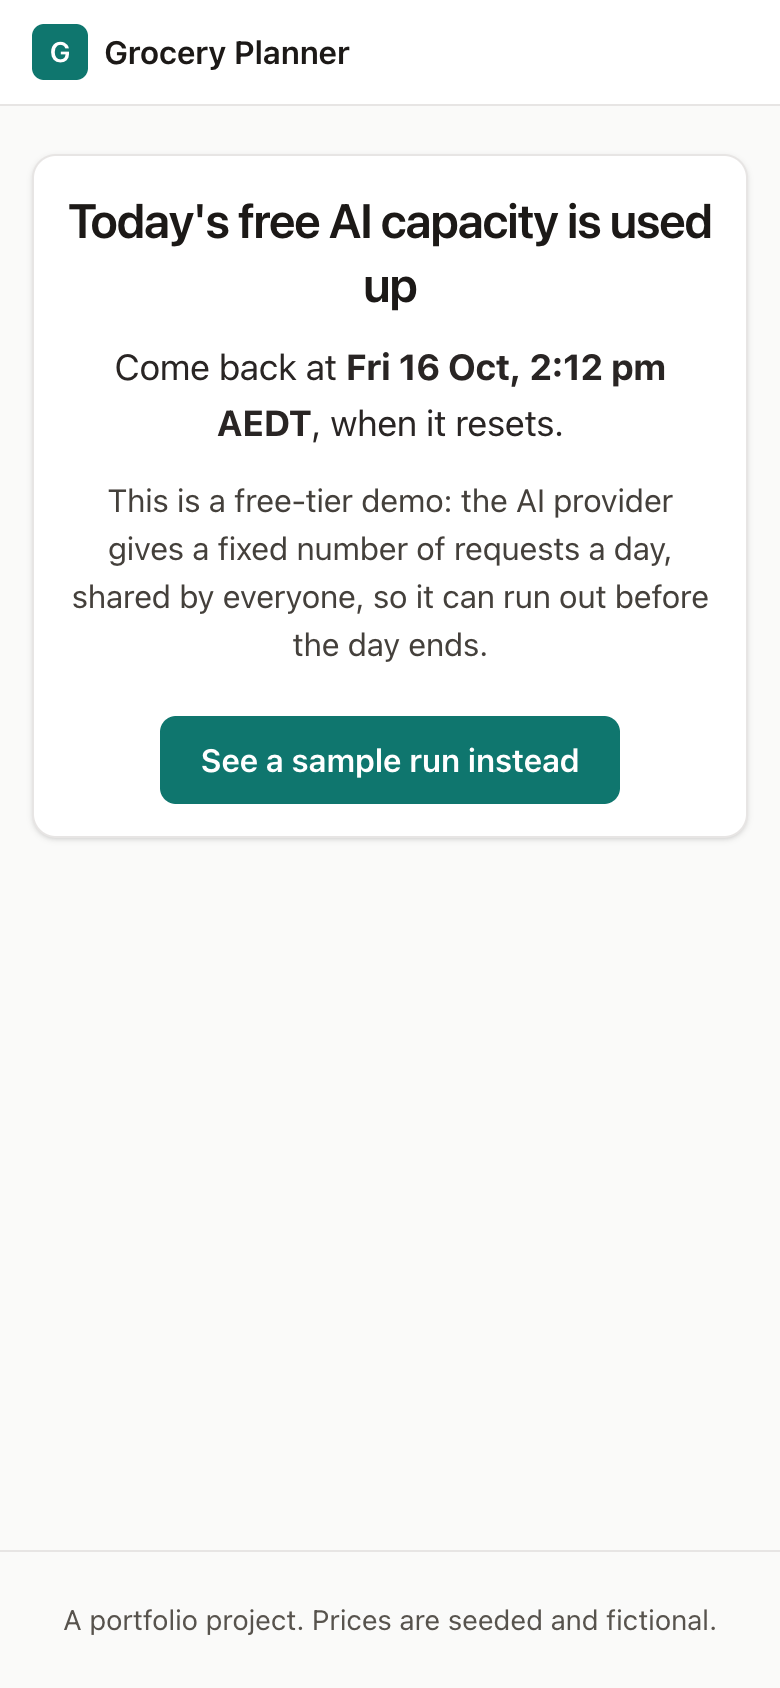
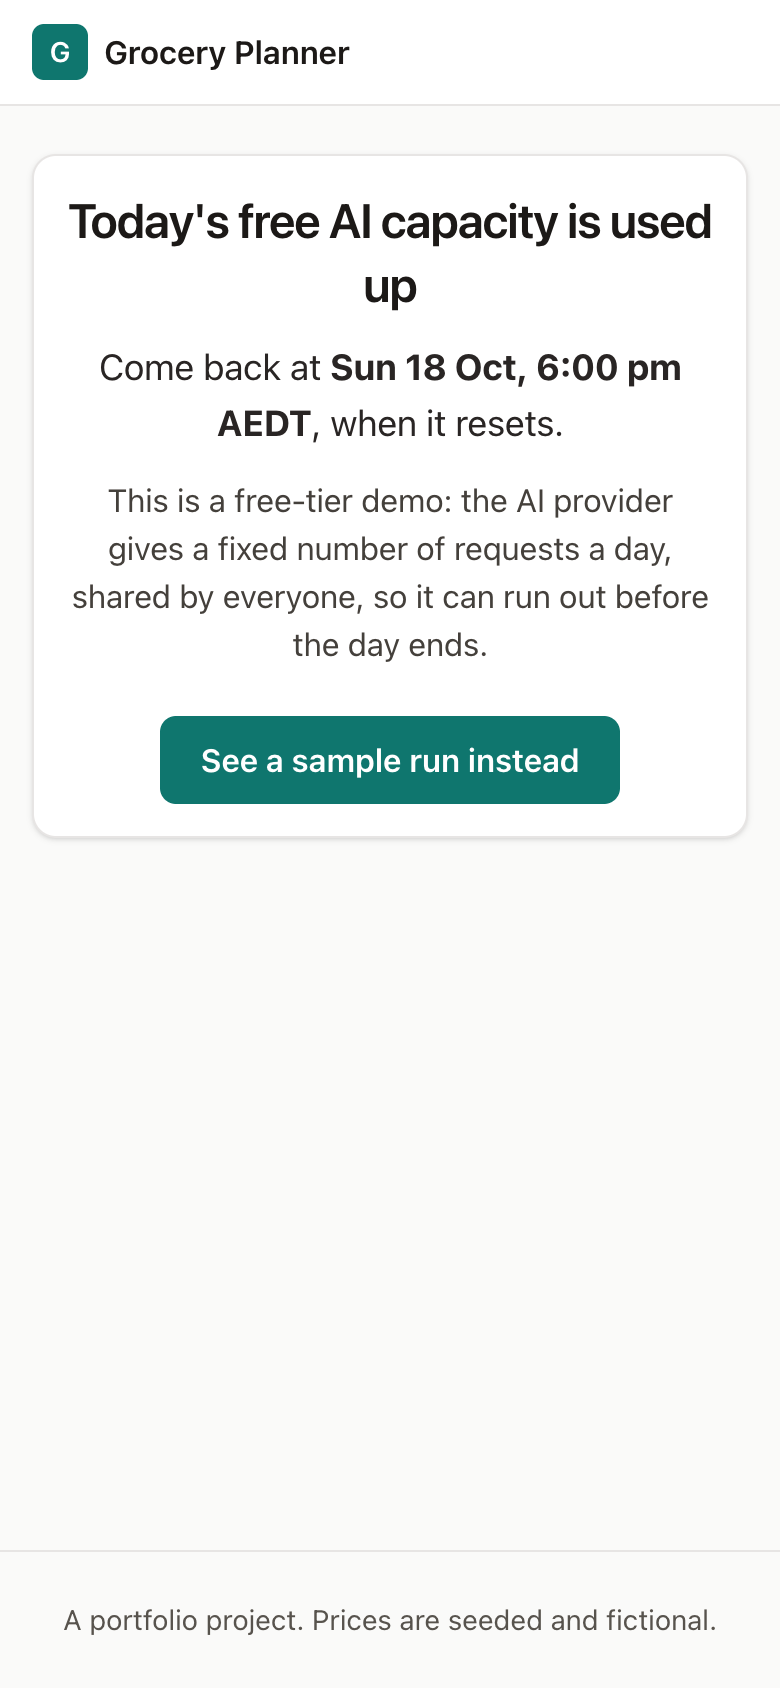
step 14b: split hero, reset time

Changed region(s): [[0.1231, 0.1848, 0.8615, 0.2464]]

diff --git a/frontend/src/components/result/RecommendationCard.tsx b/frontend/src/components/result/RecommendationCard.tsx
@@ -44,6 +44,18 @@ export function gapLine(run: RunView, rec: Recommendation, stores: string[]): st
     : `${cheaper}; it takes ${threshold} to be worth acting on.`
 }
 
+function Tile({ label, value, mark, highlight }: { label: string; value: string | null | undefined; mark?: string; highlight?: boolean }) {
+  return (
+    <div className={`rounded-lg border p-3 sm:p-4 ${highlight ? 'border-accent bg-accent-soft' : 'border-stone-200 bg-stone-50'}`}>
+      <dt className="flex flex-wrap items-center gap-2 text-sm font-medium text-stone-700">
+        {label}
+        {mark && <Badge tone="accent">{mark}</Badge>}
+      </dt>
+      <dd className="mt-1 font-mono text-3xl font-bold tabular-nums sm:text-4xl">{money(value)}</dd>
+    </div>
+  )
+}
+
 export function RecommendationCard({ run }: { run: RunView }) {
   const rec = run.recommendation
   if (!rec) return null
@@ -54,7 +66,7 @@ export function RecommendationCard({ run }: { run: RunView }) {
   const lowest = stores.reduce<string | null>((best, s) => (best === null || Number(totals[s]) < Number(totals[best]) ? s : best), null)
   const tied = stores.every((s) => Number(totals[s]) === Number(totals[lowest ?? s]))
   const assignment = Object.entries(rec.split_assignment ?? {})
-  const elsewhere = assignment.filter(([, st]) => st !== (lowest ?? ''))
+  const isSplit = rec.recommendation === 'split'
 
   return (
     <section aria-labelledby="verdict" className="rounded-xl border-2 border-accent bg-white p-5 shadow-sm sm:p-8">
@@ -64,28 +76,27 @@ export function RecommendationCard({ run }: { run: RunView }) {
       </h1>
 
       <dl className="mt-5 grid grid-cols-2 gap-3 sm:gap-4" aria-label="Basket totals by store">
-        {stores.map((s) => {
-          const isLowest = !tied && s === lowest
-          return (
-            <div
-              key={s}
-              className={`rounded-lg border p-3 sm:p-4 ${isLowest ? 'border-accent bg-accent-soft' : 'border-stone-200 bg-stone-50'}`}
-            >
-              <dt className="flex flex-wrap items-center gap-2 text-sm font-medium text-stone-700">
-                {title(s)}
-                {isLowest && <Badge tone="accent">Lowest</Badge>}
-              </dt>
-              <dd className="mt-1 font-mono text-3xl font-bold tabular-nums sm:text-4xl">{money(totals[s])}</dd>
-            </div>
-          )
-        })}
+        {isSplit ? (
+          <>
+            <Tile label="Split" highlight value={rec.rule_verdict.split_total} />
+            <Tile label={`${title(lowest ?? '')} only`} value={totals[lowest ?? '']} />
+          </>
+        ) : (
+          stores.map((s) => (
+            <Tile key={s} label={title(s)} mark={!tied && s === lowest ? 'Lowest' : undefined} highlight={!tied && s === lowest} value={totals[s]} />
+          ))
+        )}
       </dl>
       <p className="mt-3 text-lg text-stone-800">{gapLine(run, rec, stores)}</p>
 
-      {rec.recommendation === 'split' && elsewhere.length > 0 && (
+      {isSplit && assignment.length > 0 && (
         <p className="mt-3 text-stone-800">
-          Buy {elsewhere.map(([id, st]) => `${nameOf(run, id)} at ${title(st)}`).join(', ')}, and the rest at{' '}
-          {title(lowest ?? '')}.
+          {stores
+            .map((st) => ({ st, ids: assignment.filter(([, to]) => to === st).map(([id]) => nameOf(run, id)) }))
+            .filter((g) => g.ids.length > 0)
+            .map((g) => `${title(g.st)}: ${g.ids.join(', ')}`)
+            .join('. ')}
+          .
         </p>
       )}
 

diff --git a/frontend/src/components/result/ResultView.test.tsx b/frontend/src/components/result/ResultView.test.tsx
@@ -47,11 +47,21 @@ describe('the recommendation card', () => {
     expect(screen.getByText('Woolworths is $18.42 cheaper across 2 common items, over the $8.00 threshold.')).toBeInTheDocument()
   })
 
-  it('shows which items to buy elsewhere for a split', () => {
+  it('a split leads with the split total and the cheapest single store, and never marks a store Lowest', () => {
     render(<ResultView run={split()} steps={null} />)
     expect(screen.getByRole('heading', { level: 1, name: 'Split your shop' })).toBeInTheDocument()
+    const totals = totalsOf()
+    expect(totals.getByText('Split').closest('div')).toHaveTextContent('$87.10')
+    expect(totals.getByText('Split').closest('div')?.className).toContain('border-accent')
+    expect(totals.getByText('Coles only').closest('div')).toHaveTextContent('$97.10')
+    expect(totals.queryByText('Lowest')).not.toBeInTheDocument()
+    expect(totals.queryByText('Woolworths')).not.toBeInTheDocument()
     expect(screen.getByText('Splitting saves $10.00 across 2 common items, enough to clear the $8.00 threshold.')).toBeInTheDocument()
-    expect(screen.getByText(/Buy beef mince at Woolworths, and the rest at Coles/)).toBeInTheDocument()
+  })
+
+  it('a split names which items go to which store', () => {
+    render(<ResultView run={split()} steps={null} />)
+    expect(screen.getByText('Coles: eggs. Woolworths: beef mince.')).toBeInTheDocument()
   })
 
   it('explains a conditional verdict: until when it holds and what follows', () => {

diff --git a/frontend/src/lib/format.ts b/frontend/src/lib/format.ts
@@ -55,7 +55,7 @@ export function localTime(iso: string, timeZone?: string): string {
   const parts = new Intl.DateTimeFormat('en-AU', {
     weekday: 'short',
     day: 'numeric',
-    month: 'short',
+    month: 'numeric',
     hour: 'numeric',
     minute: '2-digit',
     hour12: true,
@@ -64,5 +64,5 @@ export function localTime(iso: string, timeZone?: string): string {
   }).formatToParts(date)
   const get = (type: string) => parts.find((p) => p.type === type)?.value ?? ''
   const pm = get('dayPeriod').toLowerCase()
-  return `${get('weekday')} ${get('day')} ${get('month')}, ${get('hour')}:${get('minute')} ${pm} ${get('timeZoneName')}`
+  return `${get('weekday')} ${get('day')} ${MONTHS[Number(get('month')) - 1] ?? ''}, ${get('hour')}:${get('minute')} ${pm} ${get('timeZoneName')}`
 }

diff --git a/frontend/src/test-fixtures.ts b/frontend/src/test-fixtures.ts
@@ -149,7 +149,7 @@ export const split = () =>
       savings: '10.00',
       split_assignment: { i1: 'woolworths', i2: 'coles' },
       summary_line: 'Splitting the shop (1 of 2 common items bought away from Coles) saves $10.00 (threshold $8.00).',
-      rule_verdict: { kind: 'split', store: null, totals: { coles: '97.10', woolworths: '100.12' }, gap: '3.02', threshold: '8.00', split_savings: '10.00', condition: null },
+      rule_verdict: { kind: 'split', store: null, totals: { coles: '97.10', woolworths: '100.12' }, gap: '3.02', threshold: '8.00', split_total: '87.10', split_savings: '10.00', condition: null },
     }),
   })
 

diff --git a/frontend/src/lib/format.test.ts b/frontend/src/lib/format.test.ts
@@ -15,3 +15,13 @@ describe('format', () => {
     expect(localTime('2026-10-16T07:00:00+00:00', 'America/Los_Angeles')).toMatch(/^Fri 16 Oct, 12:00 am /)
   })
 })
+
+describe('localTime for the Sydney reset', () => {
+  // The quota resets at midnight Pacific: 07:00 UTC in PDT (Mar-Nov) and 08:00 UTC in PST.
+  it('is 6:00 pm AEDT in daylight saving', () => {
+    expect(localTime('2026-10-16T07:00:00Z', 'Australia/Sydney')).toBe('Fri 16 Oct, 6:00 pm AEDT')
+  })
+  it('is 5:00 pm AEST outside daylight saving', () => {
+    expect(localTime('2026-07-16T07:00:00Z', 'Australia/Sydney')).toBe('Thu 16 Jul, 5:00 pm AEST')
+  })
+})

diff --git a/frontend/src/api/types.ts b/frontend/src/api/types.ts
@@ -473,6 +473,8 @@ export interface components {
             kind: "no_meaningful_difference" | "one_store" | "split";
             /** Split Savings */
             split_savings: string;
+            /** Split Total */
+            split_total?: string | null;
             /** Store */
             store?: string | null;
             /** Threshold */

diff --git a/backend/tests/test_api.py b/backend/tests/test_api.py
@@ -212,6 +212,7 @@ def test_post_returns_202_then_events_stream_to_run_completed_and_get_matches():
         assert view["totals"]["request_budget"] == 9  # the reservation: worst case for a run
         assert view["totals"]["would_cost_usd"] is not None
         assert "condition" in view["recommendation"]["rule_verdict"]
+        assert view["recommendation"]["rule_verdict"]["split_total"]
         steps = client.get(f"/api/runs/{run_id}/steps").json()["steps"]
         assert [s["name"] for s in steps] == ["ingredient", "price", "planner"]
         assert all(s["status"] == "completed" and s["model"] == "fake-model" for s in steps)

diff --git a/backend/grocery_planner/api/views.py b/backend/grocery_planner/api/views.py
@@ -56,7 +56,7 @@ def _recommendation(run: RunRecord) -> dict[str, Any] | None:
         "rule_verdict": {
             **_pick(
                 verdict,
-                ("kind", "store", "totals", "gap", "threshold", "split_savings", "condition"),
+                ("kind", "store", "totals", "gap", "threshold", "split_total", "split_savings", "condition"),
             ),
         },
     }

diff --git a/backend/grocery_planner/api/schemas.py b/backend/grocery_planner/api/schemas.py
@@ -147,6 +147,7 @@ class RuleVerdict(BaseModel):
     totals: dict[Store, str]
     gap: str
     threshold: str
+    split_total: str | None = None  # the best split's basket total; absent on older runs
     split_savings: str
     condition: Condition | None = None
 

diff --git a/docs/Multi-Agent Grocery Planner Design Document.md b/docs/Multi-Agent Grocery Planner Design Document.md
@@ -285,7 +285,7 @@ On a reconnect, the client reloads the run's stored state and then resumes strea
 - **Form:** repeatable meal cards (name, mains and sides lists, people, days, avoid with a note not to enter anything personal), a pantry staples toggle and a collapsed Advanced settings panel showing each default and range. Client-side validation mirrors the API caps (7 meals, 4 mains and 4 sides per meal, 20 dishes in total, text lengths); server 422 field errors are mapped onto the same inputs. A closed day shows a simple notice with the reset time and a link to the sample run; a busy or limit refusal shows the API's own message (limits add when they reset).
 - **Progress:** the three agents in order with the current one highlighted, the queue position, and the loop-back rows when the planner sends items back. It is driven by the event stream: a fresh page load replays from event 0, which rebuilds the view, and our own reconnects use `?after=<last seq>`. An `aria-live` region announces each change.
 - **Result:** the recommendation first (verdict in plain words, the code summary line, the condition "if you shop by Tue 20 Oct ... after that ...", confidence, saving, reasoning), then the per-store comparison (pack, cost, tier and flags per pick, totals on common items, excluded items listed), the consolidated shopping list by category with the meals that use each item, tips, flags and assumptions, and a footer (seeded-data notice, requests, latency, model, would-be cost, copy link, "anyone with this link can view this run"). A stopped or failed run shows the message, the ingredient list if there is one and which items failed and why.
-- **Result hero (step 14):** the verdict, then the two store totals as large numbers side by side (the lower one marked), then the gap and the threshold in one plain line, then the condition if there is one, then the reasoning under a small "Why" label and the confidence. The code's summary line stays in the API but is not shown. **How it worked:** a collapsed panel on every run page, loaded from `/api/runs/{id}/steps` on first open (so it works on shared links): a row per step (model, requests, tokens, latency, fallback), expandable to dish-cache hits, price downgrades by reason, tool calls and the requests used against the run's reservation; no prompts. **Examples:** four buttons fill the form with plans verified to give a close call, one store, a split and a special-driven verdict. **Unavailable:** when the day's capacity is used up the form is replaced by a clear message, the reset time in the viewer's own time zone, one line on why (a free-tier demo) and a link to the sample run; a busy refusal keeps the form and asks to try again in a minute.
+- **Result hero (step 14):** the verdict, then the two store totals as large numbers side by side (the lower one marked; for a split they are the split total, highlighted, and the cheapest single store's total, with a line naming which items go to which store, and no store is marked "Lowest"), then the gap and the threshold in one plain line, then the condition if there is one, then the reasoning under a small "Why" label and the confidence. The code's summary line stays in the API but is not shown. **How it worked:** a collapsed panel on every run page, loaded from `/api/runs/{id}/steps` on first open (so it works on shared links): a row per step (model, requests, tokens, latency, fallback), expandable to dish-cache hits, price downgrades by reason, tool calls and the requests used against the run's reservation; no prompts. **Examples:** four buttons fill the form with plans verified to give a close call, one store, a split and a special-driven verdict. **Unavailable:** when the day's capacity is used up the form is replaced by a clear message, the reset time in the viewer's own time zone, one line on why (a free-tier demo) and a link to the sample run; a busy refusal keeps the form and asks to try again in a minute.
 - **Design:** mobile first; one accent colour; the comparison reads like a receipt (dashed rules, tabular figures). Labels on every input, keyboard navigable, visible focus, reduced-motion respected.
 
 ## API

diff --git a/docs/DECISIONS.md b/docs/DECISIONS.md
@@ -407,3 +407,9 @@ Run on 2026-10-15 (Sydney, after the quota reset), eval key, anchor 2026-10-14, 
 ### Tests and screenshots
 - **Vitest 55** (up from 42): the hero (order, totals side by side with the lower marked, the tie case, the gap line for each verdict, no monospace summary, the condition after the gap line), the examples (they fill the form and send, and each is valid), the trace panel (collapsed and lazy, a row per step, the request line, expanded details, no downgrades, failed step and load error), the unavailable screen (with and without a sample link) and the local-time formatter. The Playwright smoke test now clicks an example, sees progress and the conditional result, and opens the trace panel (all `/api` calls mocked).
 - **Screenshots** in `docs/screenshots/` (made by `frontend/scripts/screenshots.mjs` against existing runs, so no new plans): the form with an example filled in, the hero of the conditional result on desktop and phone, a whole split result, the trace panel expanded, and the unavailable screen on desktop and phone (availability mocked). The first step 13 screenshots were replaced.
+
+## Step 14b (split hero, reset time)
+- **Split hero.** On a split the two big numbers are the split total (highlighted, labelled "Split") and the cheapest single store ("Coles only"), then the gap line, then one line grouping the items by store ("Coles: lamb chops. Woolworths: pork chops."). No store is ever marked "Lowest" on a split; the other verdicts are unchanged. The page still does no money arithmetic: `rule_verdict.split_total` (already computed by the planner maths) is now in the public view (optional in the schema, because runs stored before this change might lack it; the sample run has it, 43.50 against 58.50 for Coles alone). Types regenerated. The old "Buy X at Y, and the rest at Z" sentence is replaced.
+- **Reset time.** The previous unavailable screenshots used mocked data (`/api/availability` mocked, reset = now + 5 h, which is not a real reset time). The new ones mock the same endpoint but with the real rule (the next midnight in America/Los_Angeles, as the server computes it), and show "Sun 18 Oct, 6:00 pm AEDT". Tests pin `localTime` for Australia/Sydney: 2026-10-16 07:00 UTC is "Fri 16 Oct, 6:00 pm AEDT" and 2026-07-16 07:00 UTC is "Thu 16 Jul, 5:00 pm AEST".
+- **Bug found and fixed by that test:** `localTime` used `Intl`'s short month, which in en-AU is "July" and "Sept" rather than "Jul"/"Sep" (October looked right by luck). It now uses the same month table as `shortDate`.
+- Screenshots retaken: `desktop-split-result.png`, new `mobile-split-result.png`, both unavailable screens.
